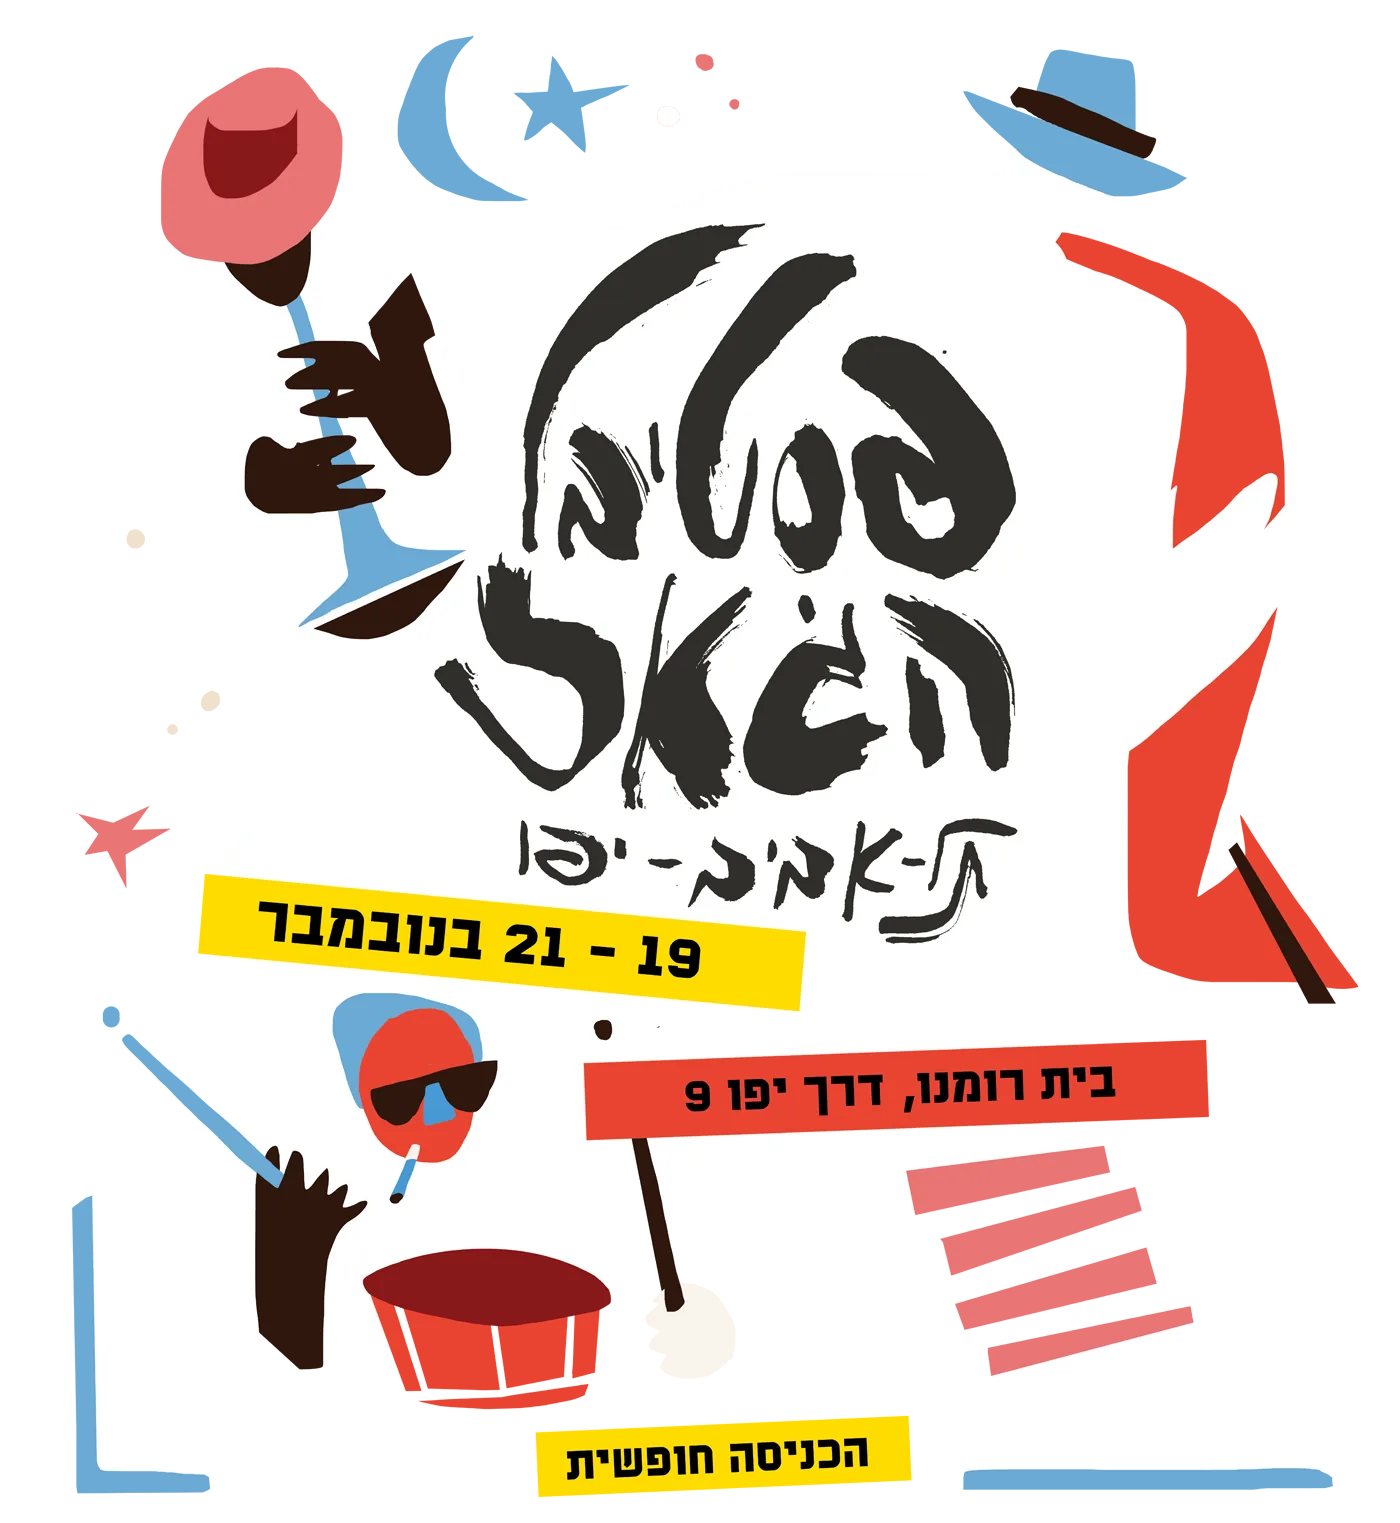
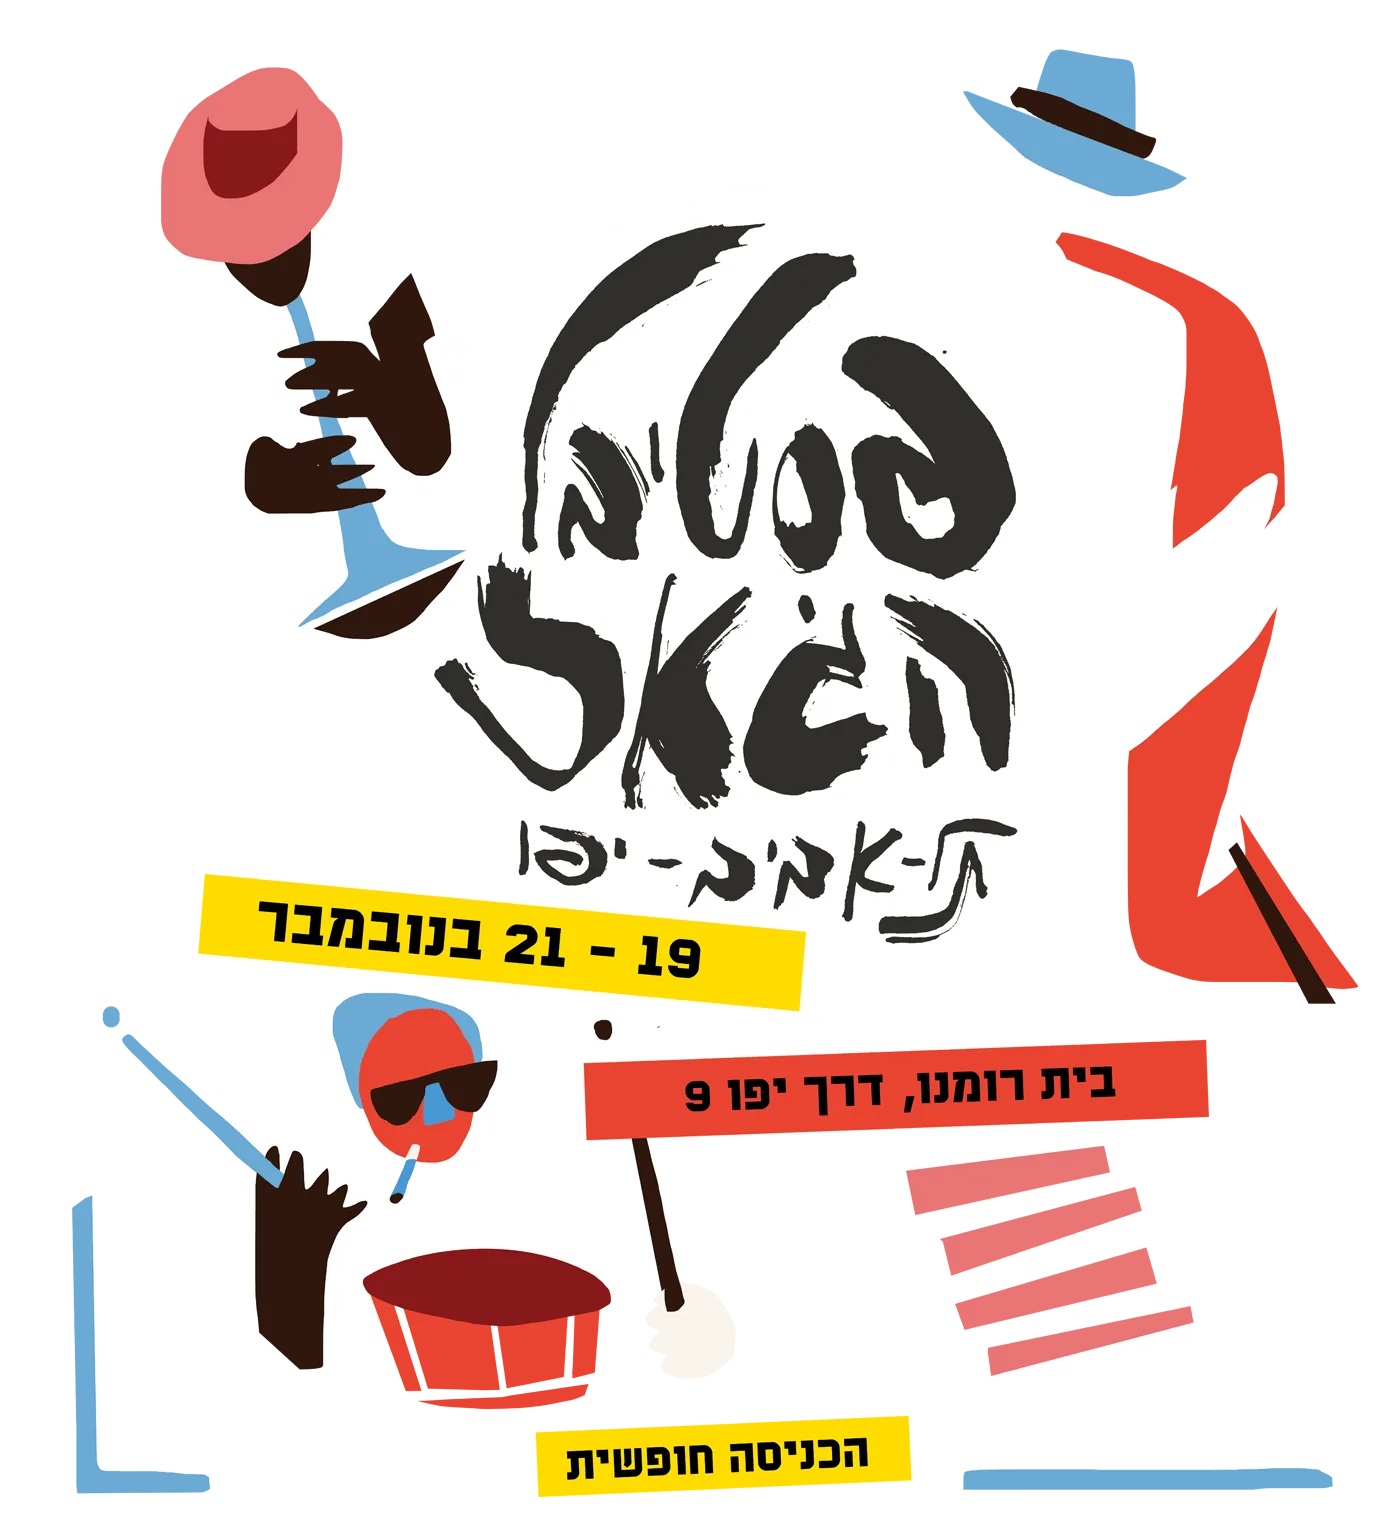
Hero: Dekel's stars split from the art and placed behind the strips

diff --git a/index.html b/index.html
@@ -13,7 +13,7 @@
 <link rel="icon" type="image/png" href="favicon.png">
 <link rel="apple-touch-icon" href="apple-touch-icon.png">
 <link rel="preload" href="fonts/rubik.woff2" as="font" type="font/woff2" crossorigin>
-<link rel="stylesheet" href="style.css?v=20261105r">
+<link rel="stylesheet" href="style.css?v=20261105s">
 </head>
 <body>
 
@@ -34,6 +34,7 @@
     <a class="pill-link" href="#schedule">ללו״ז ←</a>
   </div>
   <h1 class="poster">
+    <img class="poster-stars" src="assets/poster-stars-800.png" srcset="assets/poster-stars-800.webp 800w, assets/poster-stars-1400.webp 1400w" sizes="(min-width: 760px) 720px, 100vw" width="1400" height="1523" alt="" aria-hidden="true">
     <div class="ribbon" aria-label="במות הפסטיבל">
       <div class="rb-track" id="rb-track">
         <span>בית רומנו</span><i>✦</i><span>פארק המסילה</span><i>✦</i><span>רחבה</span><i>✦</i><span>רפי</span><i>✦</i><span>חואניטה</span><i>✦</i><span>קיסה</span><i>✦</i><span>מטמון</span><i>✦</i><span>נואיבה</span><i>✦</i><span>במה 2</span><i>✦</i>
@@ -162,10 +163,10 @@
 
 <div class="toast" id="toast" role="status" aria-live="polite"></div>
 
-<script src="data.js?v=20261105r"></script>
-<script src="names.js?v=20261105r"></script>
-<script src="lineup.js?v=20261105r"></script>
-<script src="artists-info.js?v=20261105r" onerror="void 0"></script>
-<script src="app.js?v=20261105r"></script>
+<script src="data.js?v=20261105s"></script>
+<script src="names.js?v=20261105s"></script>
+<script src="lineup.js?v=20261105s"></script>
+<script src="artists-info.js?v=20261105s" onerror="void 0"></script>
+<script src="app.js?v=20261105s"></script>
 </body>
 </html>

diff --git a/style.css b/style.css
@@ -1005,3 +1005,6 @@ html { scrollbar-color: var(--yellow) var(--brown); }
 .a-thumb { width: 100%; border-radius: 999px; background: rgba(46, 23, 12, .6); box-shadow: 0 0 0 1px rgba(244, 238, 228, .7); }
 @media (max-width: 759px) { .a-bar { bottom: 12px; } }
 .artist:focus, .artist:focus-visible, .a-sheet:focus { outline: none; }
+
+/* Dekel's stars sit behind the strips; the characters stay in front */
+.poster .poster-stars { position: absolute !important; top: 0; left: 0; width: 100%; height: auto; z-index: 0 !important; pointer-events: none; }

diff --git a/accessibility.html b/accessibility.html
@@ -6,7 +6,7 @@
 <title>הצהרת נגישות · פסטיבל הג'אז תל אביב-יפו 2026</title>
 <meta name="theme-color" content="#2E170C">
 <link rel="icon" href="favicon.ico" sizes="any">
-<link rel="stylesheet" href="style.css?v=20261105r">
+<link rel="stylesheet" href="style.css?v=20261105s">
 <style>
   .a11y { background: var(--cream); color: var(--brown); min-height: 100vh; padding: 28px 18px 48px; }
   .a11y-in { max-width: 720px; margin: 0 auto; }
